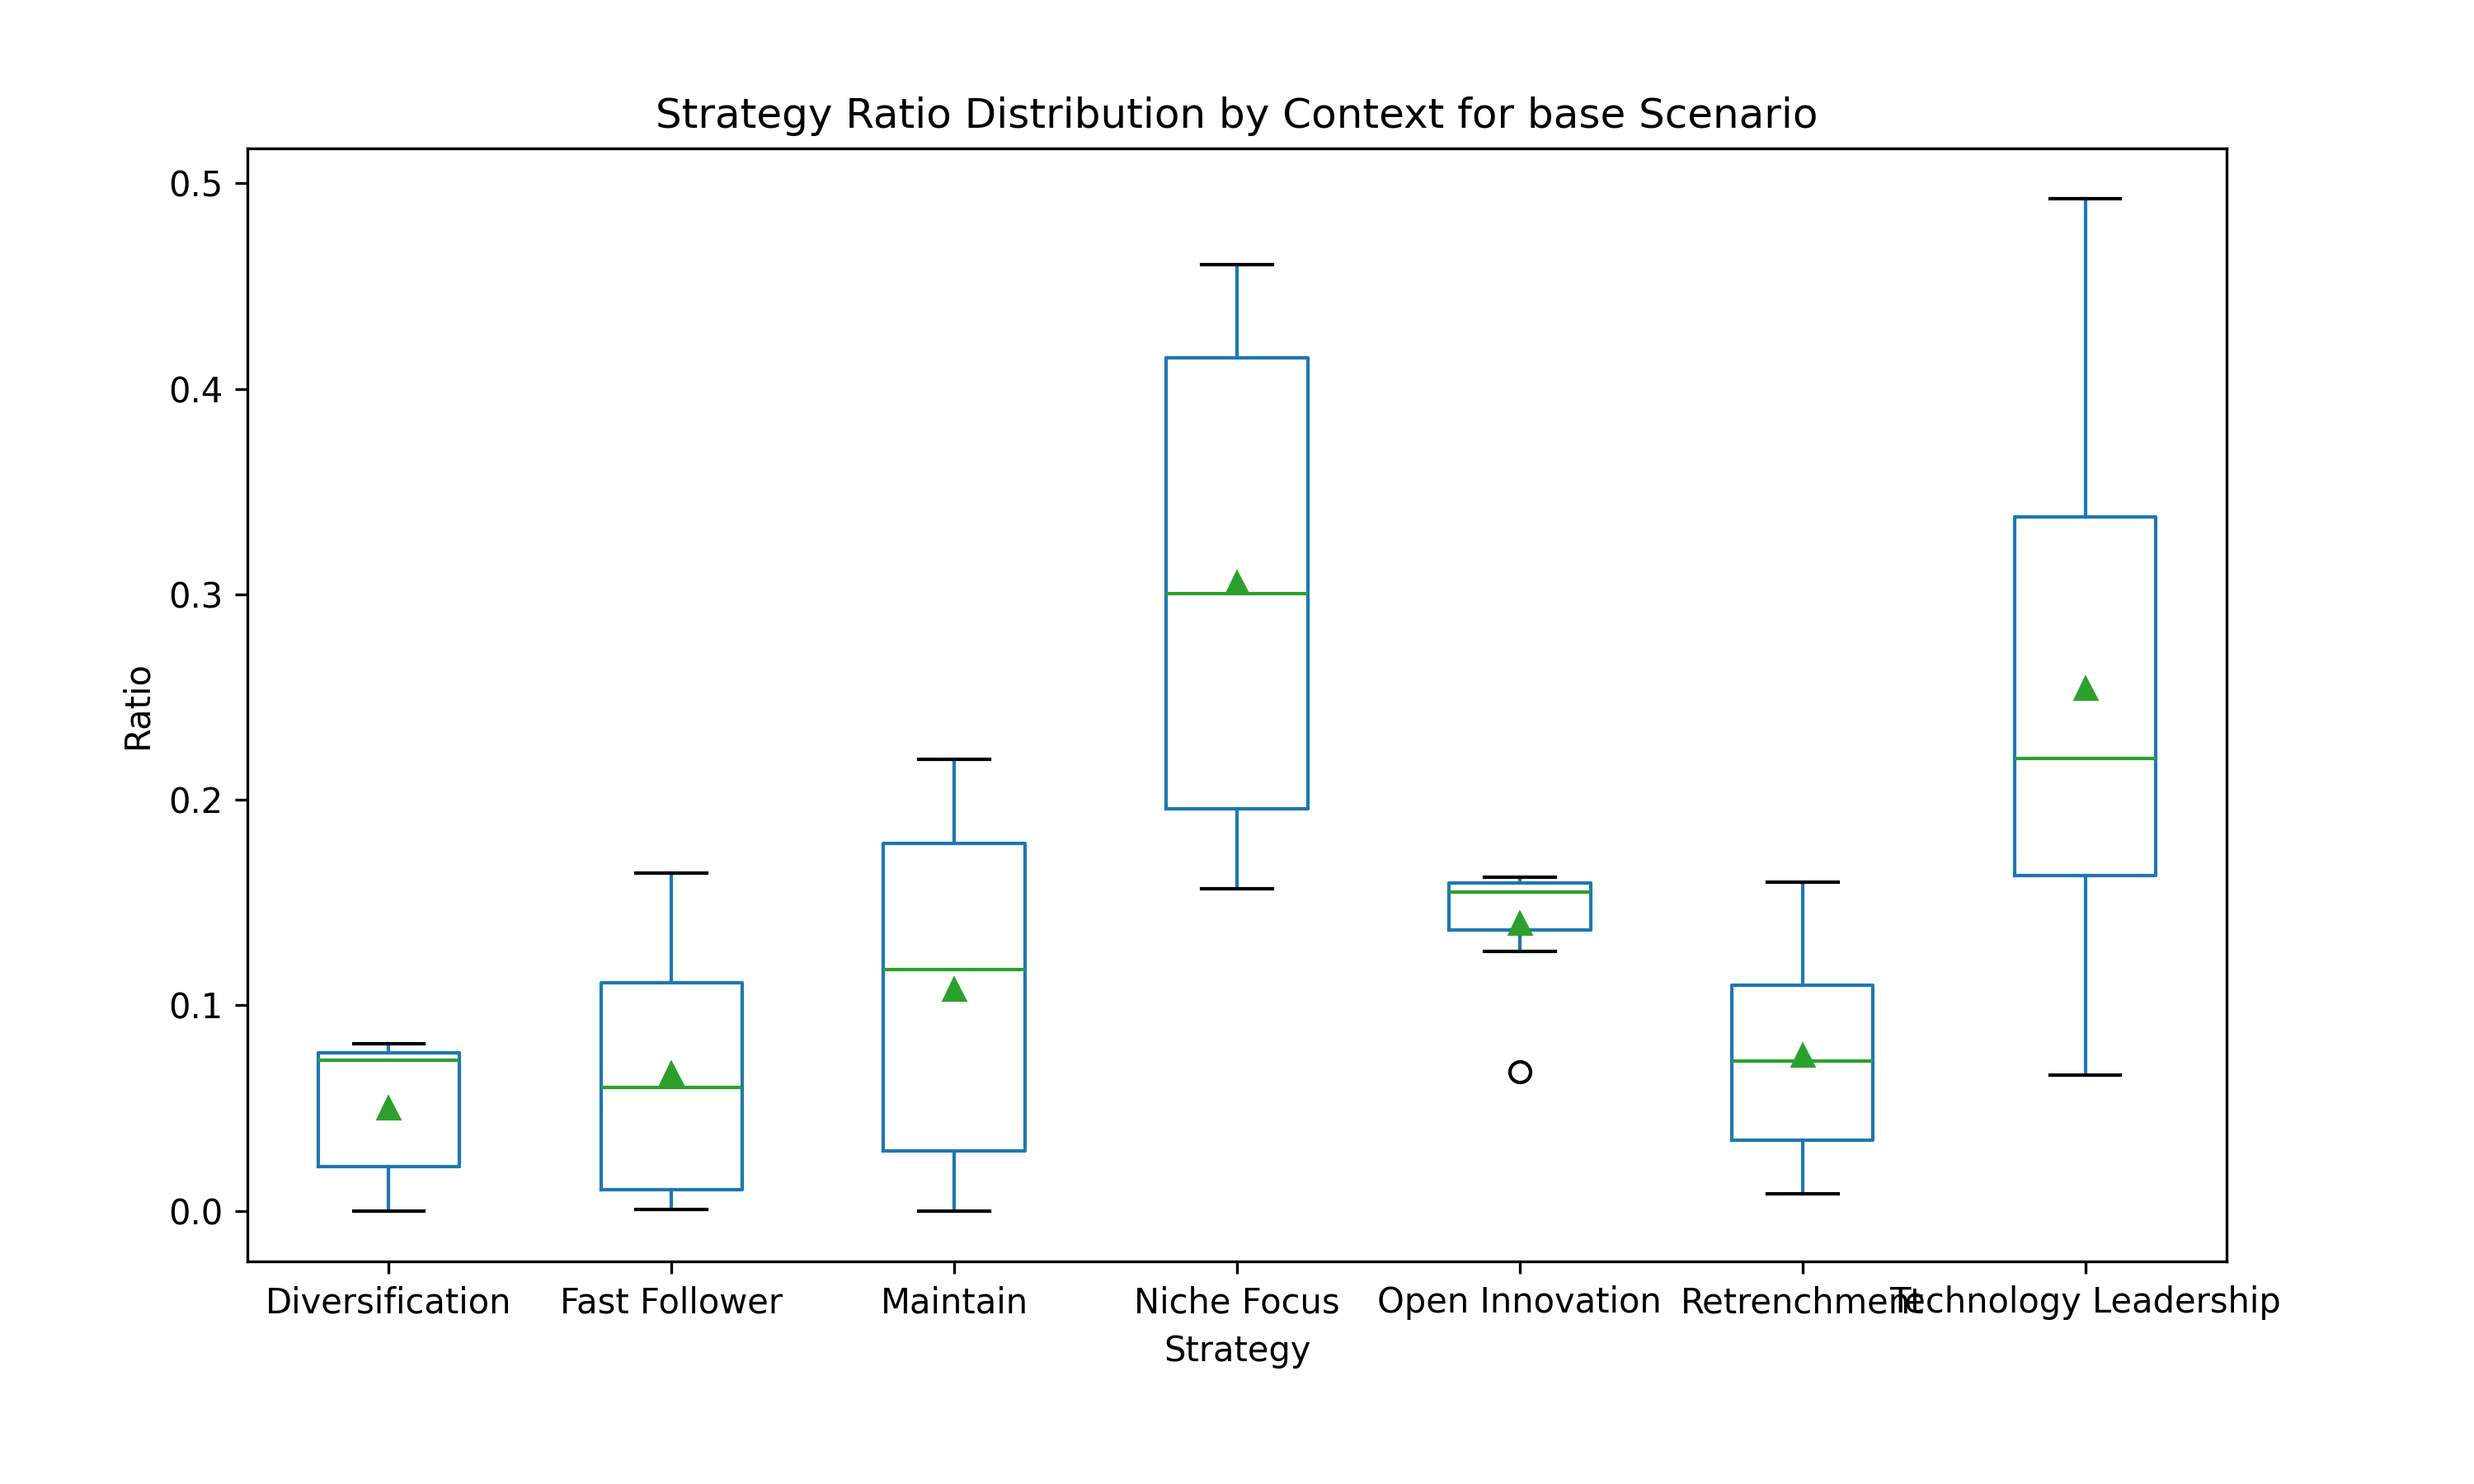
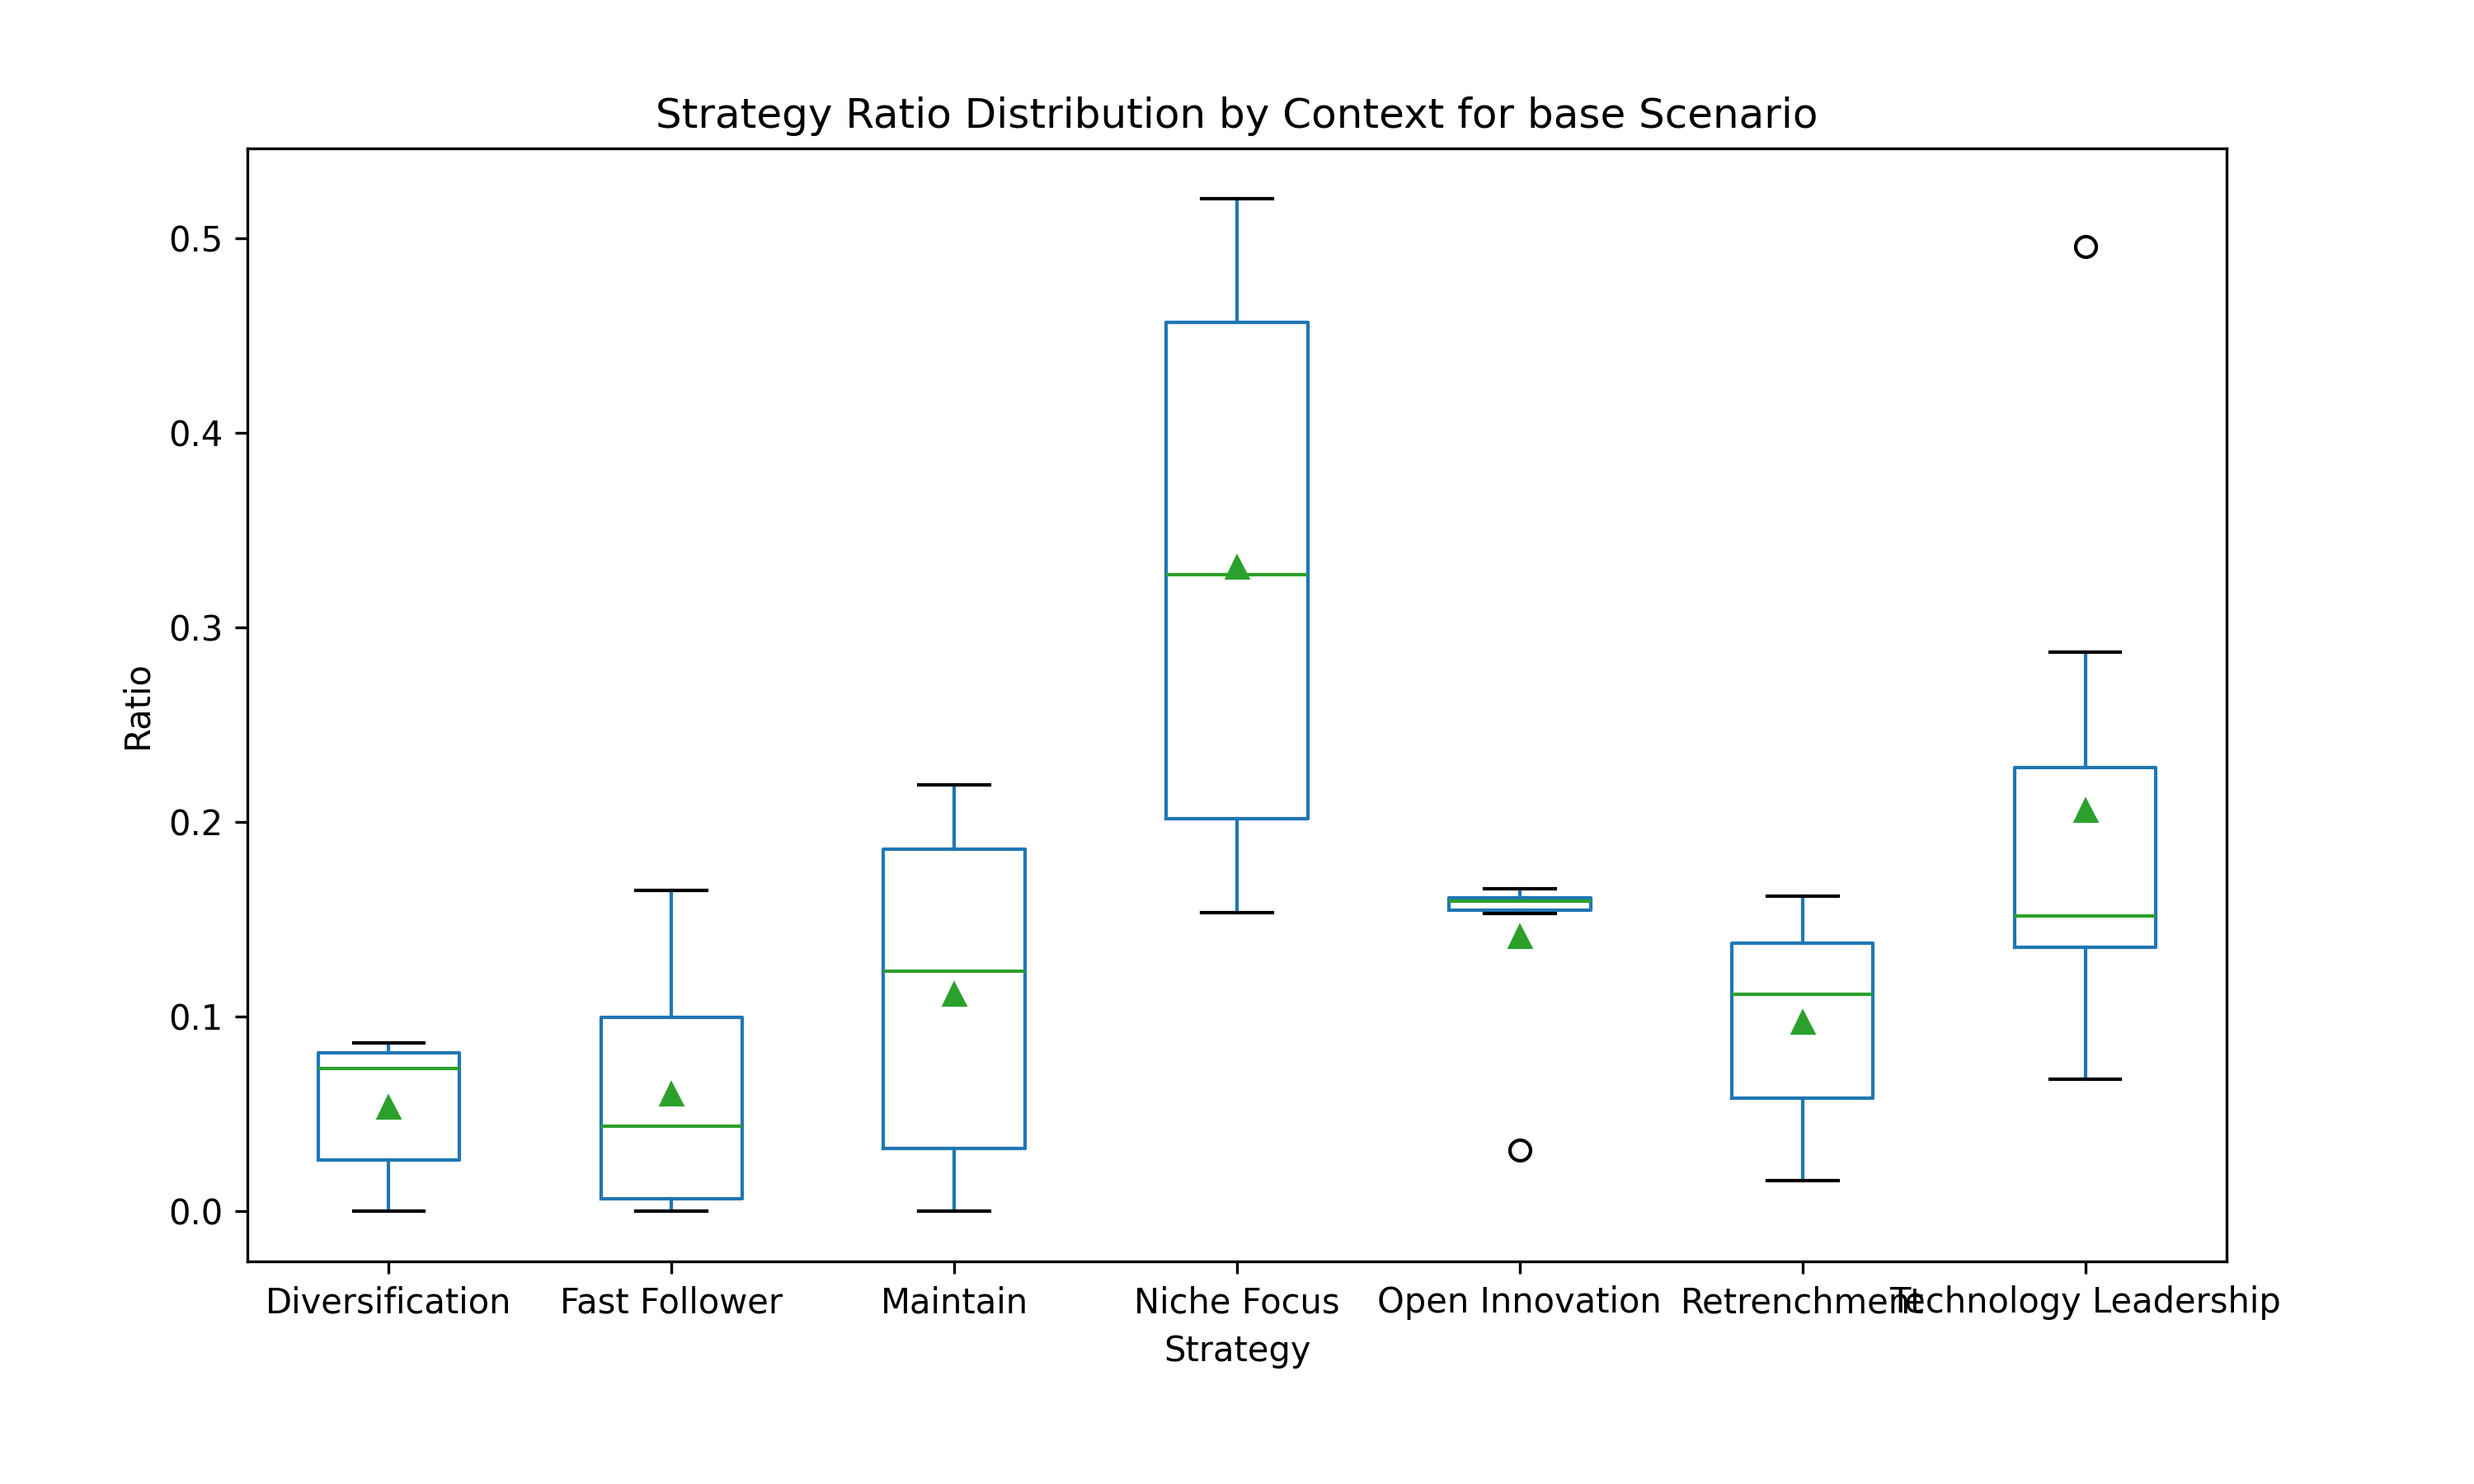
Update README: revise Figure 1 and Figure 3 explanations

diff --git a/result_analysis/context_dependency_analysis.py b/result_analysis/context_dependency_analysis.py
@@ -168,11 +168,22 @@ def compute_dynamic_context_all(input_dir="infer_results"):
     all_dfs = []
     for file in all_files:
         df = pd.read_csv(file)
-        if "scenario_type" in df.columns:
-            df = df[df["scenario_type"] == "base"]  # base 시나리오만
+
+        # 파일명에서 시나리오 타입 추출
+        file_name = os.path.basename(file).replace(".csv", "")
+        if file_name.endswith("_scenarios"):
+            scenario_type = "base"
+        else:
+            scenario_type = file_name.split("_", 1)[-1]
+            if scenario_type.startswith("scenarios_"):
+                scenario_type = scenario_type.replace("scenarios_", "")
+        df["scenario_type"] = scenario_type
+
         all_dfs.append(df)
 
+    # base 시나리오만 필터링
     df_combined = pd.concat(all_dfs, ignore_index=True)
+    df_combined = df_combined[df_combined["scenario_type"] == "base"]
 
     # 전략 비율 (Num Context 기준)
     df_ratio = ratio_table(df_combined, ["Num Context"])
@@ -209,7 +220,7 @@ def compute_dynamic_context_all(input_dir="infer_results"):
 
 def plot_dynamic_context_heatmap(df_ratio_base):
     """
-    모든 전략에 대해 Num Context × 전략 비율을 히트맵으로 시각화
+    base 시나리오 내 모든 전략에 대해모든 전략에 대해 Num Context × 전략 비율을 히트맵으로 시각화
     """
     save_dir = "./final_results/plots"
     os.makedirs(save_dir, exist_ok=True)
@@ -337,9 +348,9 @@ if __name__ == "__main__":
         plot_context_entropy(df_entropy)
 
     # base 시나리오의 모든 전략에 대해 컨텍스트 개수 변화에 따른 비율 변화 및 불안정성 지표
-    df_ratio_base, instability, overall_instability = compute_dynamic_context_all("infer_results")
-    if not df_ratio_base.empty:
-        plot_dynamic_context_heatmap(df_ratio_base)
-        plot_strategy_boxplot(df_ratio_base)      # Boxplot
-        plot_trend_with_instability(df_ratio_base, instability)
+    # df_ratio_base, instability, overall_instability = compute_dynamic_context_all("infer_results")
+    # if not df_ratio_base.empty:
+    #     plot_dynamic_context_heatmap(df_ratio_base)
+    #     plot_strategy_boxplot(df_ratio_base)      # Boxplot
+    #     plot_trend_with_instability(df_ratio_base, instability)
 

diff --git a/README.md b/README.md
@@ -76,13 +76,14 @@ To rigorously test our hypotheses and evaluate our diagnostic metrics, we design
 ### Figure 1. Strategy Ratio by Scenario
 ![Strategy Ratio by Scenario](final_results/plots/eval_eda_Strategy_Ratio_by_Scenario.png)
 
-Across all scenarios, **Technology Leadership (TL)** consistently shows the highest share, while **Niche Focus** and **Maintain** remain persistently low. However, case-specific differences are clear:
-- **competitive_dynamics**: TL slightly strengthens (0.60 → 0.62) compared to base, with minimal overall change. When framed with Tesla, TL becomes anchored and stable.  
-- **count_fact**: TL decreases significantly (0.60 → 0.49), while **Fast Follower (0.16)** and **Open Innovation (0.19)** increase. Under unfavorable facts, strategies shift from aggressive to more conservative and cooperative.  
-- **opp_focus**: TL surges strongly (0.70). When opportunities are highlighted, the model strongly gravitates toward TL.  
-- **randomized_numbers**: Nearly identical to the base scenario. Numerical perturbations have negligible effect.  
+Across scenarios, the strategy distribution shows a clear **scenario-dependent shift** rather than a single dominant default. In the **base** setting, **Niche Focus** is the most frequent choice (0.28), followed by **Open Innovation** and **Technology Leadership** (both 0.15). Several scenario-specific patterns stand out:
 
-In summary, TL acts as the default strategy across all conditions. Yet, under **negative context it weakens** and disperses to alternatives, while under **opportunity-focused context it intensifies**.
+- **competitive_dynamics**: **Technology Leadership** increases (0.15 → 0.23), while **Niche Focus** slightly decreases (0.28 → 0.24). At the same time, **Open Innovation** shows a modest rise (0.15 → 0.17). This pattern suggests that competitive pressure encourages consideration of leadership-oriented strategies, but without the strong commitment observed under opportunity-focused conditions.
+- **count_fact**: **Technology Leadership** drops markedly (0.15 → 0.09), while **Niche Focus** rises (0.28 → 0.33) and **Fast Follower** increases (0.07 → 0.10). Under unfavorable facts, the model shifts away from leadership strategies toward more conservative positioning.
+- **opp_focus**: **Technology Leadership** surges strongly (0.15 → 0.39), becoming the dominant strategy. Opportunity-focused context sharply amplifies leadership-oriented decisions.
+- **randomized_numbers**: Nearly identical to the base scenario (e.g., **Niche Focus** 0.28 → 0.29; **Technology Leadership** 0.15 → 0.14), indicating **numerical perturbations have limited impact** on overall strategy choice.
+
+Overall, the results indicate that **context framing (opportunity vs. unfavorable facts)** drives large shifts in strategy preference, while **pure numerical variation** produces minimal change.
 
 ---
 ### Figure 2. PCA of Strategy Ratios (2D Projection)
@@ -100,12 +101,15 @@ This demonstrates that **LLM strategy distributions are conditionally separable*
 ### Figure 3. Delta from Base (Generic vs. Specific)
 ![Delta from Base](final_results/plots/eval_Generic_and_Specific_Δ_by_Scenario.png)
 
-Comparing **Delta from Base** under **Generic (anonymous company)** vs. **Specific (Tesla)** framings shows:
-- **Common pattern**: TL shows the largest differences. Explicit Tesla framing often **weakens TL** or reduces its growth.  
-- **competitive_dynamics**: Generic TL rises (+0.043), but under Tesla framing converges to near zero → stabilization effect.  
-- **count_fact**: Generic TL drops (−0.018), but with Tesla it drops further (−0.064). Tesla framing amplifies negative reactions, suppressing TL while boosting Fast Follower and Open Innovation.  
-- **opp_focus**: Generic TL rises sharply (+0.140), but with Tesla the increase is muted (+0.043). Tesla framing induces conservatism.  
-- **randomized_numbers**: Generic shows a slight positive (+0.011), but Tesla framing flips it negative (−0.019), overemphasizing risk narratives.  
+Figure 3 compares **strategy shifts relative to the base scenario** under **Generic (anonymous company)** and **Specific (brand-framed)** conditions, highlighting how **problem framing alters decision sensitivity rather than absolute strategy choice**.
 
-Overall, **brand framing is not just stabilizing**; under unfavorable or uncertain contexts, it actively **suppresses aggressive TL choices** and shifts decisions toward alternative strategies.
+Several consistent patterns emerge:
+
+- **Overall pattern**: Brand framing does not uniformly increase or decrease aggressiveness. Instead, it **modulates the direction and magnitude of strategy shifts depending on context**.
+- **competitive_dynamics**: Under competitive pressure, **Specific framing dampens extreme shifts** observed in the Generic case. Technology Leadership increases modestly, while alternative strategies such as Open Innovation also gain share, indicating a stabilizing effect rather than full commitment.
+- **count_fact**: When unfavorable facts are emphasized, **Specific framing amplifies defensive reactions**. Technology Leadership declines more strongly, accompanied by increased movement toward Fast Follower and Open Innovation strategies.
+- **opp_focus**: In opportunity-focused contexts, **Specific framing amplifies aggressive responses**. Technology Leadership increases more strongly than in the Generic case, suggesting that brand identity acts as a catalyst rather than a constraint when upside potential is salient.
+- **randomized_numbers**: Both Generic and Specific framings remain close to zero across strategies, indicating that **brand effects are largely inactive under purely numerical perturbations**.
+
+Overall, Figure 3 demonstrates that **brand framing functions as a context-dependent amplifier or stabilizer**, not a fixed bias. This highlights the importance of considering **decision sensitivity and framing effects** when deploying LLMs for strategic decision-making in R&D contexts.
 
